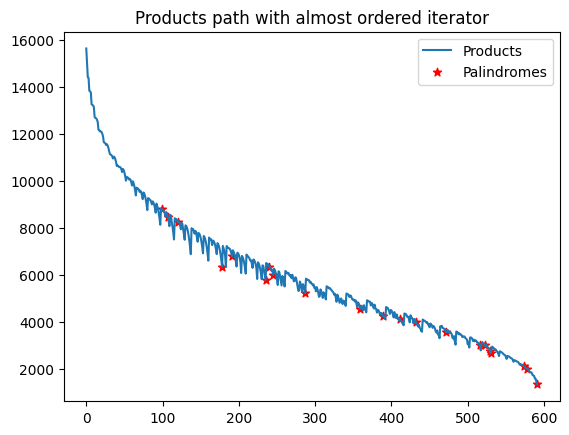
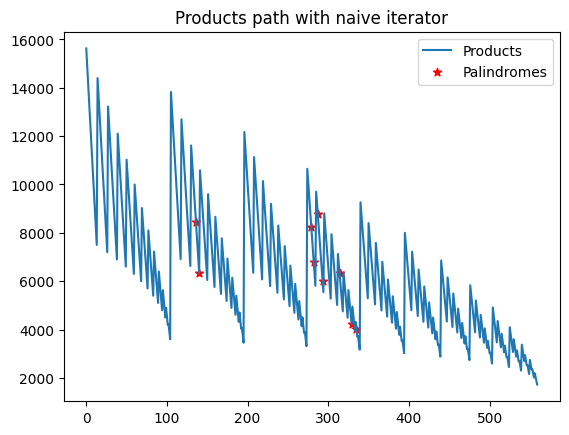
Update README

diff --git a/README.md b/README.md
@@ -1,51 +1,42 @@
+# Introduction
+
+The problem is to find the biggest palindrom $p$ with
+$$p = a_0\times a_1\times \dots \times a_{n-1}$$
+and
+$$a_i\in \llbracket m, M \rrbracket$$
+
+This repository will provide three solutions and for readability, we'll 
+<!-- present them using $m=11,\ M=25$ and $n=3$. -->
+
+For each solution this repository will provide, the idea is to iterate within the cartesian product $\llbracket m, M \rrbracket^n$.
+
+Before solving the actual problem with $m=100,\ M=999$ and $n=3$, we'll use $m=11,\ M=25$ and $n=3$ as an example.
+
+
+
 ```python
-from iterators import get_naive_iterator, get_pruned_iterator, get_almost_ordered_iterator, plot_iterator
-```
-
-
-```python
-
-
-
+from iterators import (
+    get_naive_iterator, 
+    get_pruned_iterator, 
+    get_ordered_iterator,
+    plot_iterator)
+    
 min_digit, max_digit, n_digits = 11, 25, 3
 
-naive_iterator = get_naive_iterator(min_digit, max_digit, n_digits)
+```
 
+# Brute force solution using a naive iterator
+
+This solution simply involve nested for loops within the cartesian product $\llbracket m, M \rrbracket^n$. It avoids duplicates by ordering each $(a, b, c)$ such as $a\geq b\geq c$.
+
+As we can see on the figure below, this iterator must be consumed entirely before return the biggest palindrome which will result in a big amount of time to compute the solution.
+
+
+```python
+naive_iterator = get_naive_iterator(min_digit, max_digit, n_digits)
 plot_iterator(
     naive_iterator,
-    title="Products path with almost ordered iterator")
-
-```
-
-
-    
-![png](README_files/README_1_0.png)
-    
-
-
-
-```python
-pruned_iterator = get_pruned_iterator(min_digit, max_digit)
-plot_iterator(
-    pruned_iterator,
-    title="Products path with smart iterator")
-
-```
-
-
-    
-![png](README_files/README_2_0.png)
-    
-
-
-
-```python
-ordered_iterator = get_almost_ordered_iterator(
-    min_digit, max_digit, n_digits)
-plot_iterator(
-    ordered_iterator,
-    title="Products path with almost ordered iterator")
-
+    title="Products path with naive iterator")
 
 ```
 
@@ -55,9 +46,59 @@ plot_iterator(
     
 
 
+# Brute Force solution with pruning
+
+The idea here is that we won't iterate threw $(a, b, c)$ if their product $abc$ is less than the last encountered palindrome. 
+This solution will be really faster but can't be used to find all the palindromes.
+
 
 ```python
-ordered_iterator = get_almost_ordered_iterator(
+pruned_iterator = get_pruned_iterator(min_digit, max_digit)
+plot_iterator(
+    pruned_iterator,
+    title="Products path with pruned iterator")
+
+```
+
+
+    
+![png](README_files/README_5_0.png)
+    
+
+
+# First match with a decreasing iterator
+
+The idea here is te iterate within $\llbracket m, M \rrbracket^n$ in a way such that the sequence of the $(a,b,c)$ is not ascending.
+To accomplish that, we consider the tree where each node $(a, b, c)$ has three children which are the combinations with the biggest product smaller than $abc$.
+
+We might then process a BFS against that tree and stop at the first palindrome encoutered but it will not be guaranteed to return the biggest one as a simple BFS will not previde a non ascending sequance of combinations.
+
+
+
+
+```python
+ordered_iterator = get_ordered_iterator(
+    min_digit, max_digit, n_digits, almost=True)
+plot_iterator(
+    ordered_iterator,
+    title="Products path with almost ordered iterator")
+
+
+```
+
+
+    
+![png](README_files/README_7_0.png)
+    
+
+
+To avoid this, we'll need compute a little bit ahead of time the next layer of the tree so we can merge it with the currently processed layer while preserving the non ascendinfg order.
+
+The great advantage of this iterator is that the first palindrome is the one.
+
+
+```python
+ordered_iterator = get_ordered_iterator(
     min_digit, max_digit, n_digits, almost=False)
 plot_iterator(
     ordered_iterator,
@@ -67,11 +108,43 @@ plot_iterator(
 
 
     
-![png](README_files/README_4_0.png)
+![png](README_files/README_9_0.png)
     
+
+
+# Performances
 
 
 
 ```python
+from palindrome import NaiveFinder, PrunedFinder, OrderedFinder
+from time import time
+import matplotlib.pyplot as plt
+```
+
+
+```python
+from time import perf_counter
+
+
+def perfs(finder):
+    t = perf_counter()
+    p = finder.find()
+    return p, perf_counter() - t
+
+
+min_digit, max_digit = 100, 999
+naive_finder = NaiveFinder(min_digit, max_digit)
+pruned_finder = PrunedFinder(min_digit, max_digit)
+ordered_finder = OrderedFinder(min_digit, max_digit)
+
+print("naive", *perfs(naive_finder))
+print("pruned", *perfs(pruned_finder))
+print("ordered :", *perfs(ordered_finder))
 
 ```
+
+    naive (967262769, 123.83732125100505)
+    pruned (967262769, 0.37509871399379335)
+    ordered : 967262769 0.0064202840003417805
+
